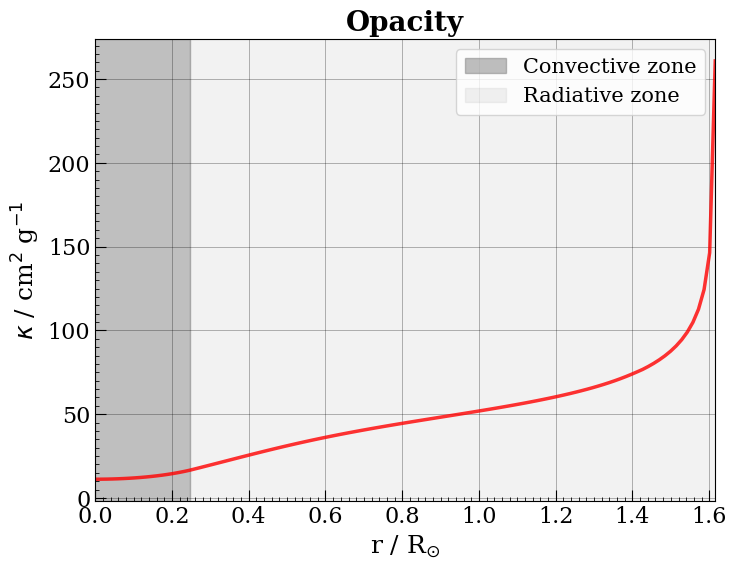
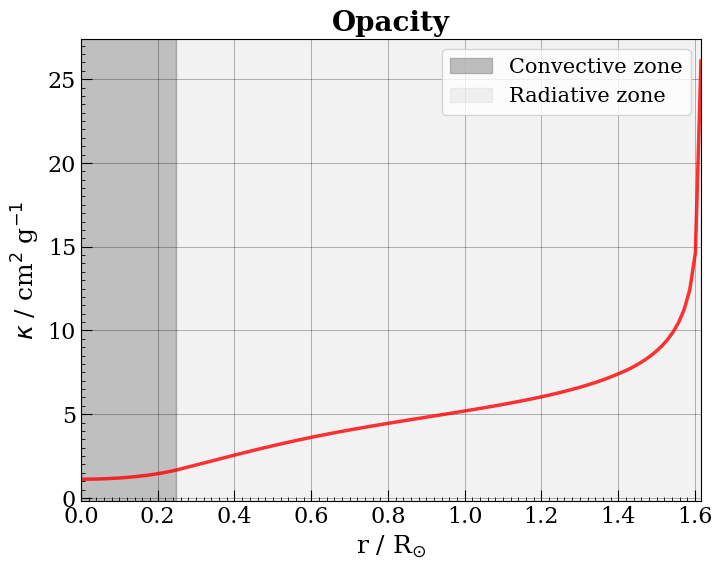
Opacitty function error

diff --git a/stellarpy/star.py b/stellarpy/star.py
@@ -584,7 +584,7 @@ class Star:
             Equation (8)
             Both density and temperature are expected in the modified unit system.
             """
-            g_bf = 3.162
+            g_bf = 1/3.162
             return 4.34e25 * g_bf * self.Z * (1+self.X) * rho / ((T*1e7)**3.5)
 
         # Calculating the most efficient energy generation cycle for a given pressure and temperature
